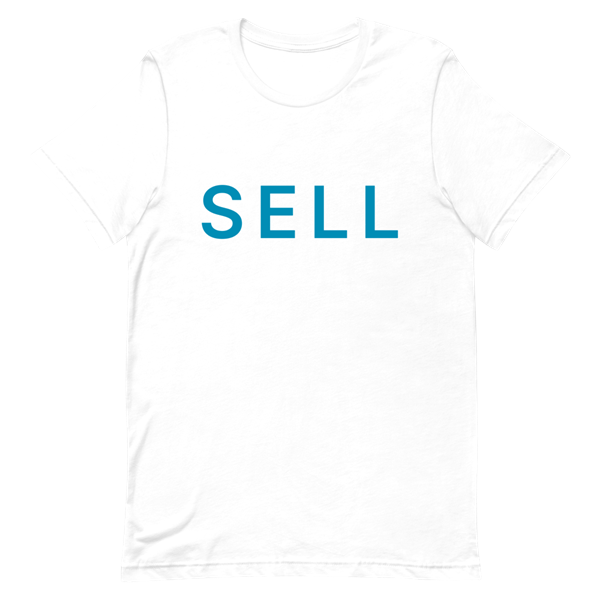
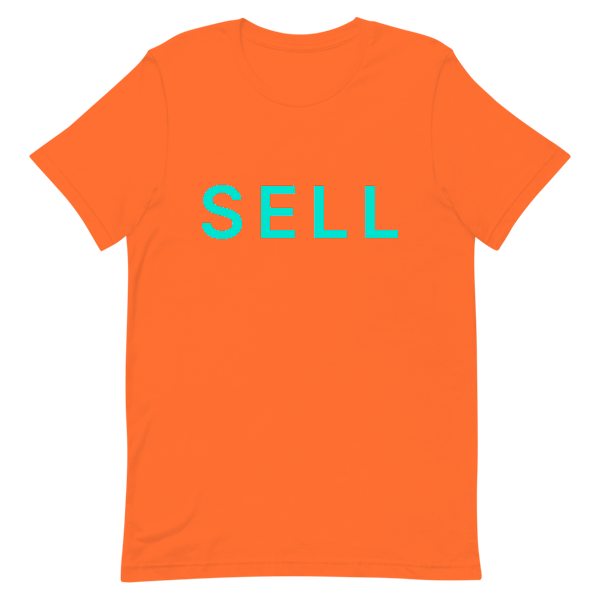
Set Miami tee ink colors

diff --git a/components/ProductPage.tsx b/components/ProductPage.tsx
@@ -111,7 +111,7 @@ export default function ProductPage({ slug, style }: { slug: string; style: Styl
               <summary>Why SELL</summary>
               <div className="content">
                 Modeled on the shirt Oakland fans wore to the 2023 reverse boycott.{" "}
-                {WHY[style] ?? (team.alternateOf ? `One word in ${printColor} on ${colorLabel(team, style)}.` : team.slug === "nfl-buffalo" && style === "tee" ? "One word in red on royal blue." : (team.slug === "nfl-cincinnati" || team.slug === "nfl-pittsburgh") && style === "tee" ? "One word in black on your team color." : team.slug === "nfl-cleveland" && style === "tee" ? "One word in orange on Browns brown." : team.slug === "nfl-baltimore" && style === "tee" ? "One word in metallic gold on Ravens purple." : "One word in white on your team colors.")} It says what a lot of {team.market} fans are thinking &mdash; loud enough to be
+                {WHY[style] ?? (team.alternateOf ? `One word in ${printColor} on ${colorLabel(team, style)}.` : team.slug === "nfl-buffalo" && style === "tee" ? "One word in red on royal blue." : team.slug === "nfl-miami" && style === "tee" ? "One word in orange on aqua." : (team.slug === "nfl-cincinnati" || team.slug === "nfl-pittsburgh") && style === "tee" ? "One word in black on your team color." : team.slug === "nfl-cleveland" && style === "tee" ? "One word in orange on Browns brown." : team.slug === "nfl-baltimore" && style === "tee" ? "One word in metallic gold on Ravens purple." : "One word in white on your team colors.")} It says what a lot of {team.market} fans are thinking &mdash; loud enough to be
                 seen from the owner&rsquo;s suite. <Link href="/story" style={{ textDecoration: "underline" }}>Read the story.</Link>
               </div>
             </details>

diff --git a/lib/products.ts b/lib/products.ts
@@ -79,10 +79,14 @@ export function colorHex(team: Team, style: Style): string {
 export function printColorName(team: Team, style: Style): string {
   if (team.alternateOf) {
     const original = getTeam(team.alternateOf);
-    if (original) return colorName(original, style);
+    if (original) {
+      if (team.slug === "nfl-miami-alternate-one" && style === "tee") return "Teal";
+      return colorName(original, style);
+    }
   }
   if (style === "tee") {
     if (team.slug === "nfl-buffalo") return "red";
+    if (team.slug === "nfl-miami") return "orange";
     if (team.slug === "nfl-cincinnati" || team.slug === "nfl-pittsburgh") return "black";
     if (team.slug === "nfl-cleveland") return "orange";
     if (team.slug === "nfl-baltimore") return "metallic gold";
@@ -93,10 +97,14 @@ export function printColorName(team: Team, style: Style): string {
 export function printColorHex(team: Team, style: Style): string {
   if (team.alternateOf) {
     const original = getTeam(team.alternateOf);
-    if (original) return colorHex(original, style);
+    if (original) {
+      if (team.slug === "nfl-miami-alternate-one" && style === "tee") return COLORS.tee.Teal.hex;
+      return colorHex(original, style);
+    }
   }
   const name = printColorName(team, style);
   if (name === "red") return "#d0071e";
+  if (name === "orange") return "#FF3C00";
   if (name === "black") return "#000000";
   if (name === "orange") return "#FF3C00";
   if (name === "metallic gold") return "#C5A253";

diff --git a/lib/art.ts b/lib/art.ts
@@ -1,4 +1,4 @@
 // Bump when the shirt artwork or photos change: Printful caches print files by
 // URL and next/image caches optimized photos by URL, so a new number makes
 // both fetch fresh copies.
-export const ART_VERSION = 21;
+export const ART_VERSION = 22;

diff --git a/lib/teams.ts b/lib/teams.ts
@@ -201,6 +201,7 @@ const ALTERNATE_TEE_BLANK: Record<string, string> = {
   "nfl-buffalo": "Red",
   "nfl-cincinnati": "Black",
   "nfl-cleveland": "Orange",
+  "nfl-miami": "Orange",
   "nfl-pittsburgh": "Black",
 };
 
